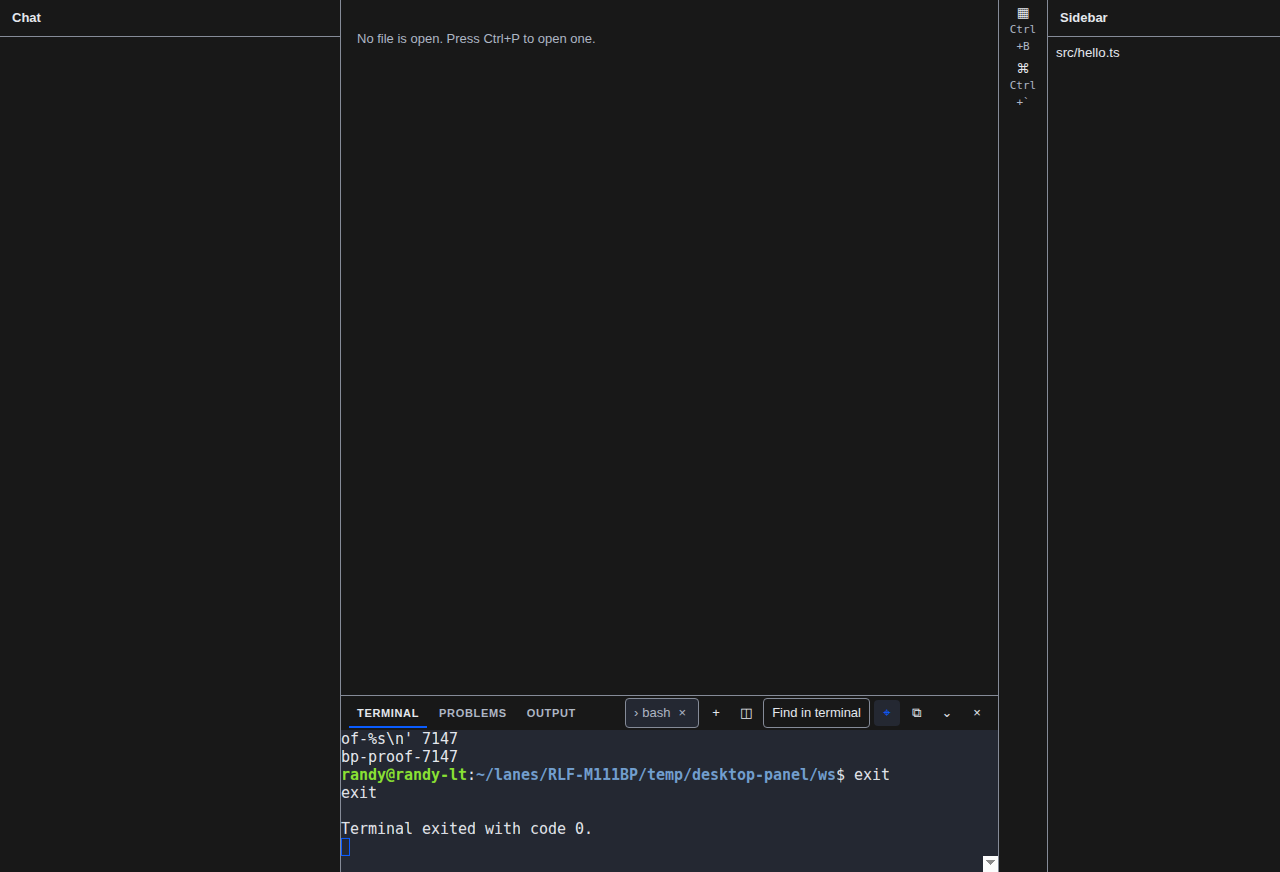
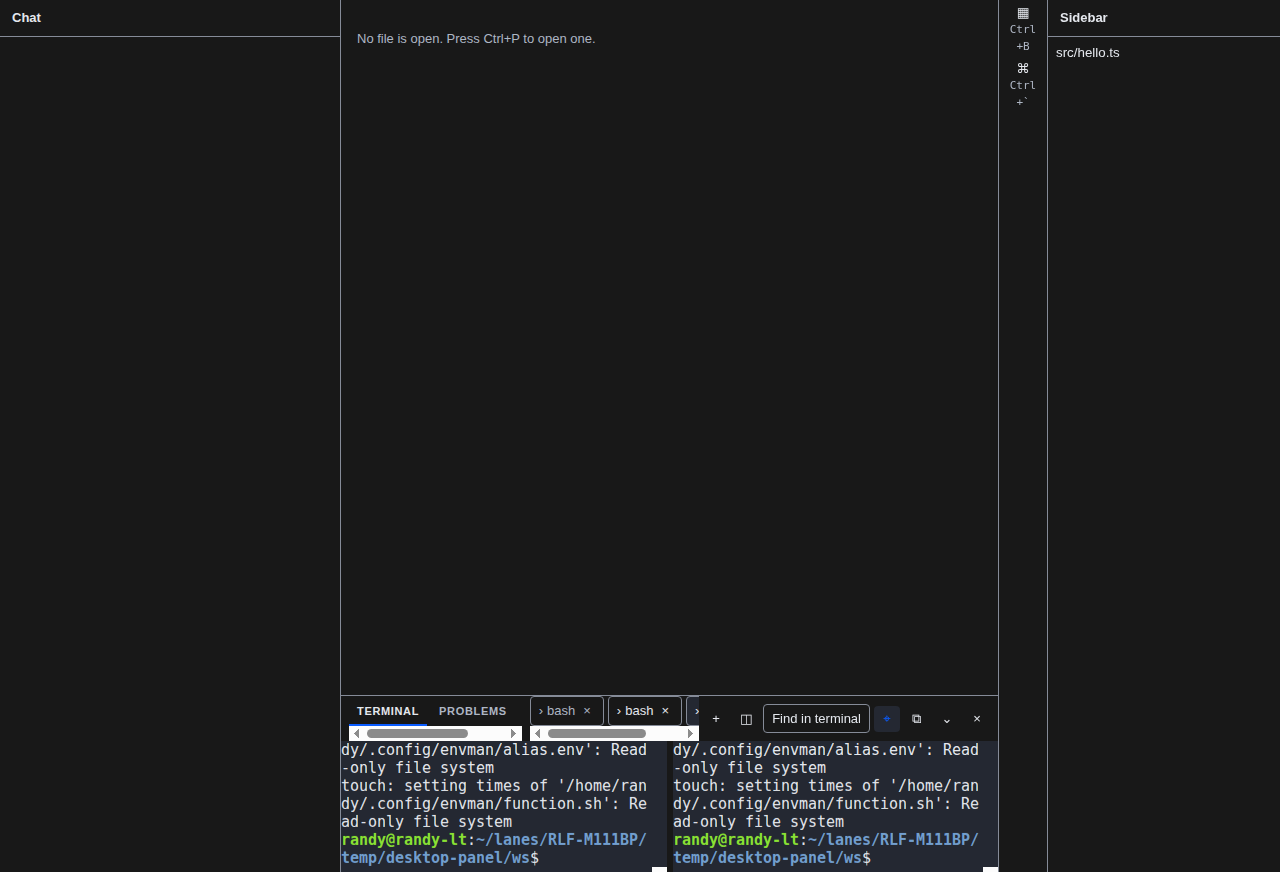
feat(desktop): BP proof covers split, collapse, detach, pin live (M111 D91.13)

Changed region(s): [[0.25, 0.7741, 0.7812, 1.0], [0.8438, 0.0, 0.875, 0.0619], [0.7812, 0.031, 0.8125, 0.0619]]

diff --git a/docs/certification/rlf-m111bp.md b/docs/certification/rlf-m111bp.md
@@ -55,11 +55,15 @@ Drills and gates.
   back to canvas); per-character keys reach `bash -i` and
   `bp-proof-7147` streams back through the bridge (printf's format
   keeps the input echo from containing it); `exit` lands the exited
-  tab, exit code 0 and the exit sentence; Problems and Output show
-  their honest empty states; the status snapshot carries the
-  workbench items. Every phase has its own bound (120–180 s; a
-  shared rig answers slowly) and says which phase failed with the
-  page's state.
+  tab, exit code 0 and the exit sentence; split panes render side by
+  side, collapse and expand round-trip the footer (shells remount
+  with their transcripts), detach and dock round-trip the floating
+  window, pin toggles and restores; Problems and Output show their
+  honest empty states; the status snapshot carries the workbench
+  items. Every phase has its own bound (60–180 s; a shared rig
+  answers slowly) and says which phase failed with the page's state.
+  The kept shots show the split panes (the envman read-only noise in
+  them is the rig's sandboxed HOME in the shells' own startup).
 - The look found and fixed three real defects: (1) xterm's Unicode
   11 addon needs `allowProposedApi` (the pane showed the chunk
   failure until the flag landed); (2) the CSP blocked xterm's
